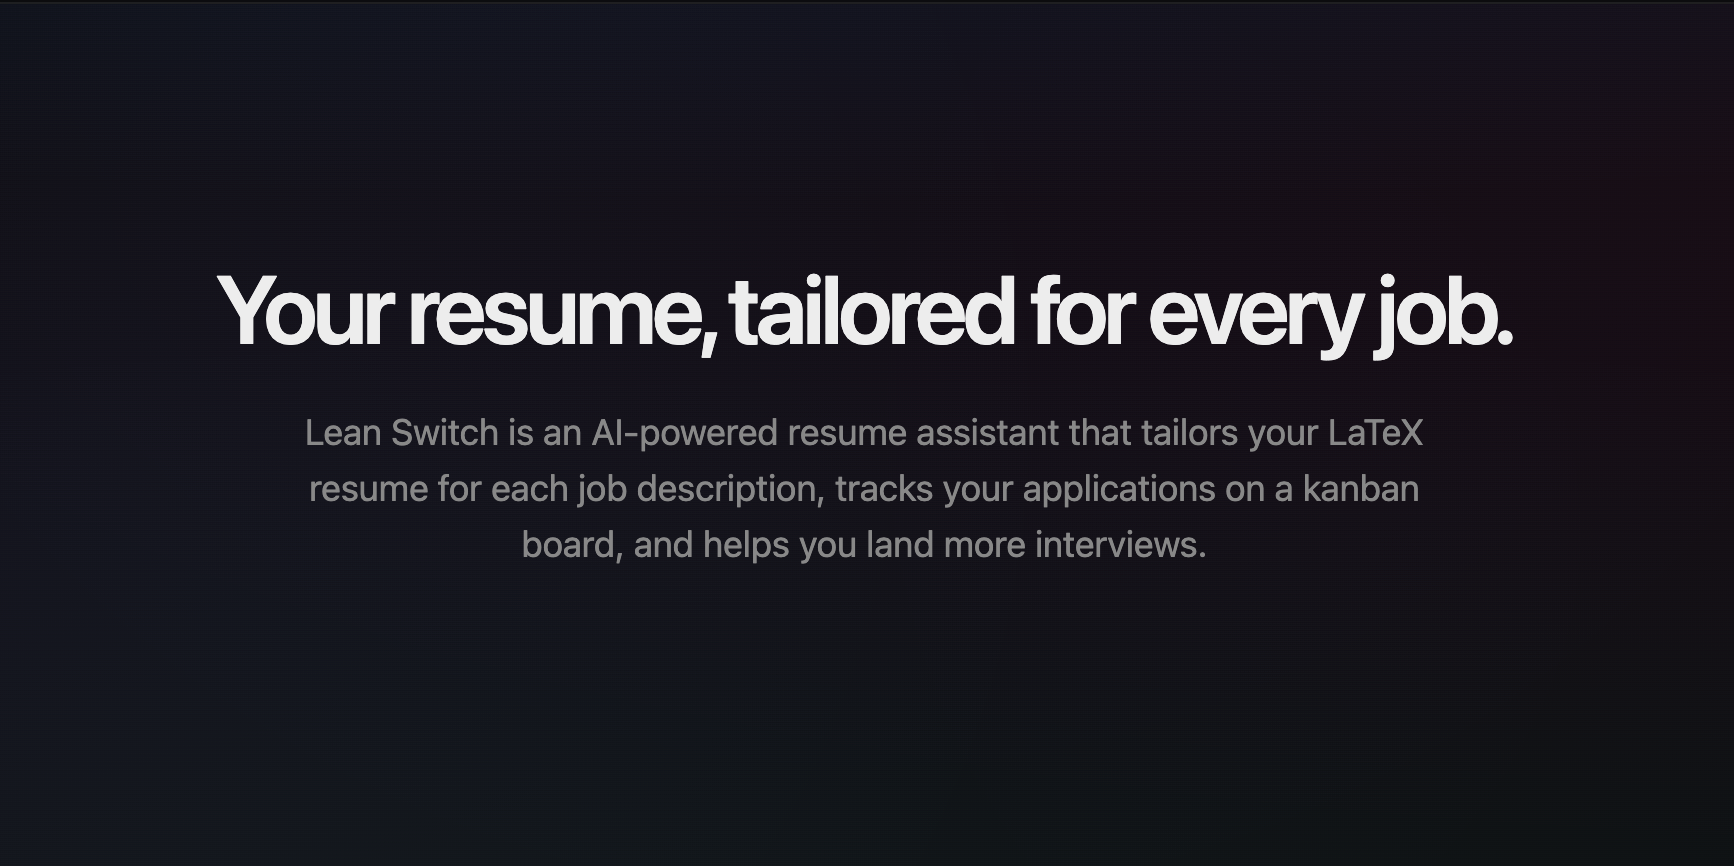
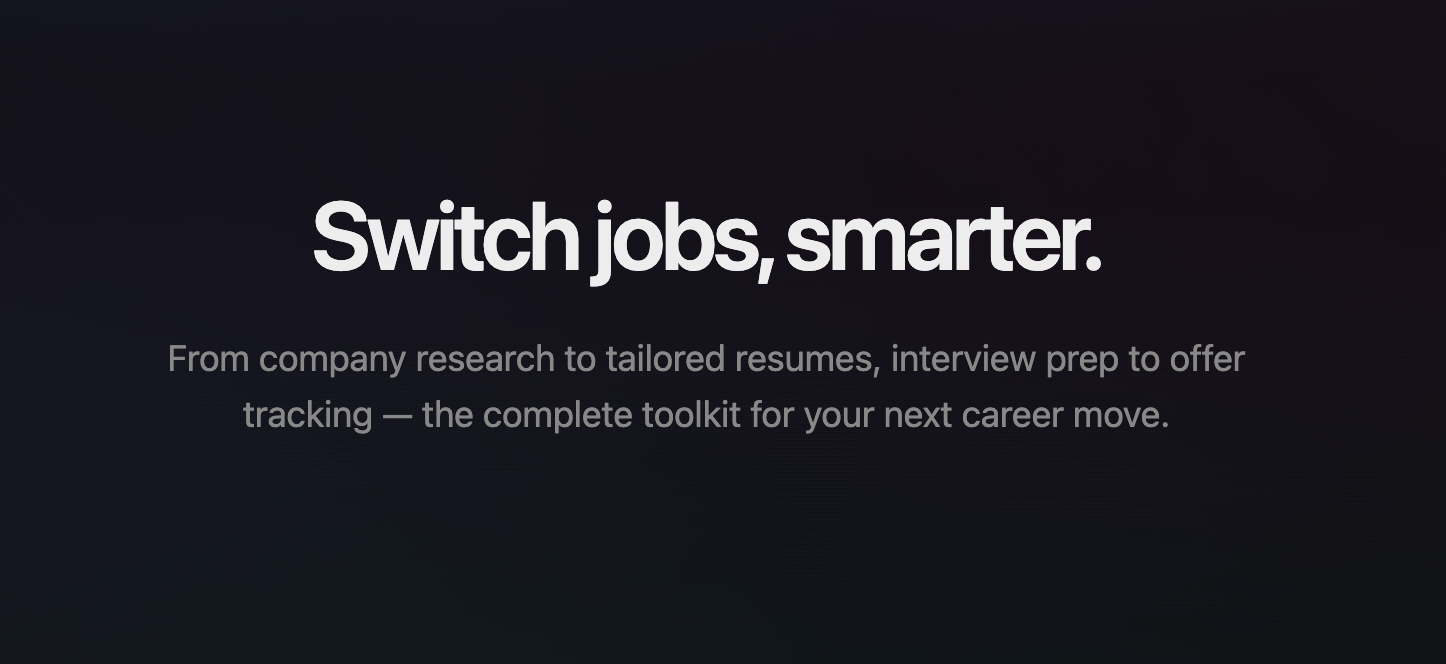
refactor: redesign landing page for full job-switch product scope

Changed region(s): [[0.0934, 0.4819, 0.8714, 0.6627], [0.1245, 0.3012, 0.8714, 0.4518]]

diff --git a/client/src/views/LandingPage.tsx b/client/src/views/LandingPage.tsx
@@ -1,5 +1,5 @@
 import { useNavigate } from "react-router-dom";
-import { FileText, LayoutDashboard, ArrowRight, Sparkles, PenTool, Target, Zap } from "lucide-react";
+import { ArrowRight, Building2, LayoutDashboard, Sparkles, CalendarDays, FileText, Share2 } from "lucide-react";
 import { useAuth } from "../contexts/AuthContext";
 
 export default function LandingPage() {
@@ -39,19 +39,18 @@ export default function LandingPage() {
           <h1
             className="text-[48px] font-semibold leading-[48px] tracking-[-2.4px] text-brand-ink max-w-[720px] mx-auto"
           >
-            Your resume, tailored for every job.
+            Switch jobs, smarter.
           </h1>
-          <p className="mt-6 text-[18px] leading-[28px] text-brand-body max-w-[560px] mx-auto">
-            Lean Switch is an AI-powered resume assistant that tailors your LaTeX
-            resume for each job description, tracks your applications on a kanban
-            board, and helps you land more interviews.
+          <p className="mt-6 text-[18px] leading-[28px] text-brand-body max-w-[600px] mx-auto">
+            From company research to tailored resumes, interview prep to offer
+            tracking — the complete toolkit for your next career move.
           </p>
           <div className="mt-10 flex items-center justify-center gap-3">
             <button
               onClick={handleCTA}
               className="inline-flex items-center gap-2 rounded-full bg-brand-ink text-brand-on-primary px-6 h-12 text-[16px] font-medium hover:opacity-90 transition-opacity"
             >
-              Sign In
+              Get Started
               <ArrowRight size={16} />
             </button>
             <a
@@ -83,65 +82,65 @@ export default function LandingPage() {
         </h2>
         <div className="grid grid-cols-1 md:grid-cols-3 gap-6">
           <FeatureCard
-            icon={<Sparkles size={20} />}
-            title="AI Resume Tailoring."
-            description="Our AI agent reads the job description and rewrites your LaTeX resume to highlight relevant experience, skills, and keywords — without losing your voice."
-          />
-          <FeatureCard
-            icon={<PenTool size={20} />}
-            title="LaTeX Editor with Live Preview."
-            description="Edit your resume in a full Monaco editor with syntax highlighting, auto-compile, and a real-time PDF preview. No local setup required."
+            icon={<Building2 size={20} />}
+            title="Company Research."
+            description="Research companies before you apply. Gather insights on culture, tech stack, and recent developments — make informed decisions about your next move."
           />
           <FeatureCard
             icon={<LayoutDashboard size={20} />}
             title="Kanban Job Tracker."
-            description="Track every application through your pipeline — from bookmark to applied, phone screen, interview, offer, and beyond. Drag and drop to update."
+            description="Track every application through your pipeline. Drag and drop cards across columns from 'Saved' to 'Offer' — always know where you stand."
+          />
+          <FeatureCard
+            icon={<Sparkles size={20} />}
+            title="AI Resume Tailoring."
+            description="Let the AI agent customize your LaTeX resume for each job description. Your master resume stays untouched while each application gets a tailored version."
           />
         </div>
         <div className="grid grid-cols-1 md:grid-cols-3 gap-6 mt-6">
           <FeatureCard
-            icon={<Target size={20} />}
-            title="One Master, Many Tailored."
-            description="Keep a single master resume and generate tailored versions per role. The agent copies and edits — your original stays untouched."
-          />
-          <FeatureCard
-            icon={<Zap size={20} />}
-            title="Instant Compilation."
-            description="Compile your LaTeX resume in seconds with our server-side compiler. Download the PDF or preview it instantly in your browser."
+            icon={<CalendarDays size={20} />}
+            title="Interview Calendar."
+            description="Schedule and track every interview round. Phone screens, technicals, on-sites — all on one calendar linked to your applications."
           />
           <FeatureCard
             icon={<FileText size={20} />}
-            title="Multiple Resumes, One Place."
-            description="Manage different resume templates for different industries. Upload existing LaTeX projects or start from a blank template."
+            title="Interview Documentation."
+            description="Log every question and piece of feedback from your interviews. Build your personal prep archive and track what works."
+          />
+          <FeatureCard
+            icon={<Share2 size={20} />}
+            title="Community Question Bank."
+            description="Share your interview experiences and tap into thousands of real questions. Learn what companies are asking and help others prepare."
           />
         </div>
       </section>
 
       <section className="bg-brand-ink text-brand-on-primary py-24">
         <div className="max-w-[1200px] mx-auto px-6 text-center">
-          <p className="text-[12px] font-mono tracking-normal uppercase text-black/40 mb-6">
+          <p className="text-[12px] font-mono tracking-normal uppercase text-brand-on-primary/30 mb-6">
             How It Works
           </p>
           <h2
             className="text-[32px] font-semibold leading-[40px] tracking-[-1.28px] mb-16"
           >
-            From job post to tailored resume in minutes.
+            From research to offer, all in one place.
           </h2>
           <div className="grid grid-cols-1 md:grid-cols-4 gap-8 text-left">
             {[
-              { step: "01", title: "Create Your Master.", desc: "Upload your LaTeX resume or start from a blank template. Edit in our code editor with live PDF preview." },
-              { step: "02", title: "Save a Job.", desc: "Paste a job URL on your kanban board. The application stores the role, company, and links to your tailored resume." },
-              { step: "03", title: "Let AI Tailor It.", desc: "The agent reads the job description and rewrites your resume — emphasizing matching skills without fabricating anything." },
-              { step: "04", title: "Compile & Apply.", desc: "Review the result, compile the PDF, and send it. Track the application as it moves through your pipeline." },
+              { step: "01", title: "Research & Save.", desc: "Find companies you're excited about. Save job postings and organize them on your kanban board." },
+              { step: "02", title: "Tailor & Apply.", desc: "Let AI customize your resume for each role. Track applications as they move through your pipeline." },
+              { step: "03", title: "Prepare & Interview.", desc: "Schedule interviews on your calendar. Log questions and feedback from every round." },
+              { step: "04", title: "Share & Grow.", desc: "Contribute to the community question bank and learn from fellow job seekers." },
             ].map((item) => (
               <div key={item.step}>
-                <div className="text-[12px] font-mono text-black/30 mb-3">
+                <div className="text-[12px] font-mono text-brand-on-primary/30 mb-3">
                   {item.step}
                 </div>
                 <h3 className="text-[16px] font-medium leading-[24px] mb-2">
                   {item.title}
                 </h3>
-                <p className="text-[14px] leading-[20px] tracking-[-0.28px] text-black/50">
+                <p className="text-[14px] leading-[20px] tracking-[-0.28px] text-brand-on-primary/50">
                   {item.desc}
                 </p>
               </div>
@@ -154,18 +153,18 @@ export default function LandingPage() {
         <h2
           className="text-[32px] font-semibold leading-[40px] tracking-[-1.28px] text-brand-ink max-w-[600px] mx-auto"
         >
-          Stop writing resumes manually.
+          Ready to land your next role?
         </h2>
         <p className="mt-4 text-[16px] leading-[24px] text-brand-body max-w-[480px] mx-auto">
-          Join thousands of job seekers who use Lean Switch to tailor their
-          resumes with AI and track their applications.
+          Join job seekers who use Lean Switch to manage their entire job search
+          — from research to offer.
         </p>
         <div className="mt-8 flex items-center justify-center">
           <button
             onClick={handleCTA}
             className="inline-flex items-center gap-2 rounded-full bg-brand-ink text-brand-on-primary px-8 h-12 text-[16px] font-medium hover:opacity-90 transition-opacity"
           >
-            Sign In
+            Get Started
             <ArrowRight size={16} />
           </button>
         </div>
